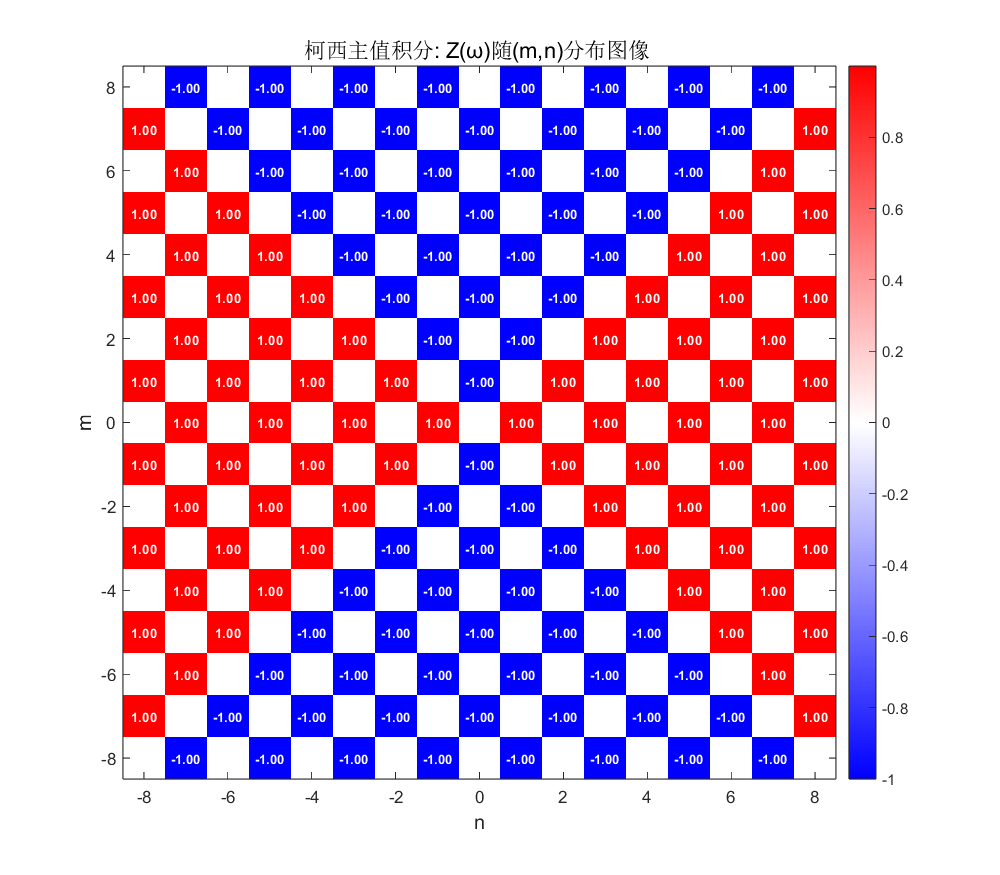
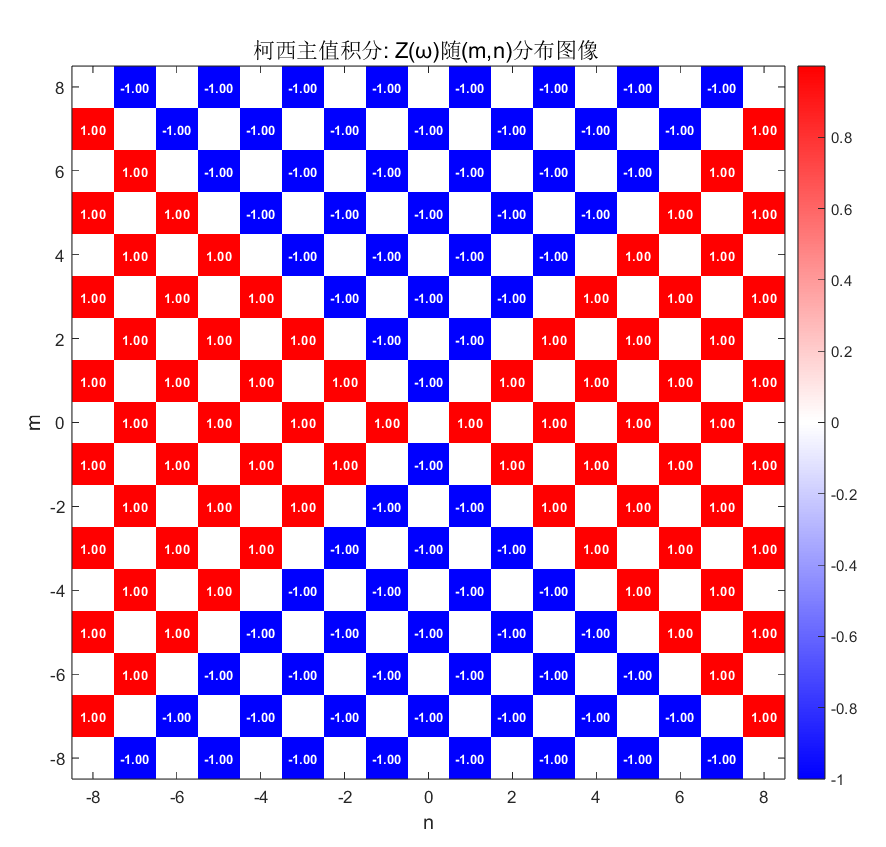
final_2

diff --git a/final_total_report/total.tex b/final_total_report/total.tex
@@ -681,6 +681,56 @@ we investigate transport in two-dimensional infinite
 
 \subsection{问题背景与频域方程}
 
+
+\begin{figure}[H]
+  \centering
+  \begin{tikzpicture}[scale=1.2]
+    % 参数设置
+    \def\m{4} % x方向节点数
+    \def\n{3} % y方向节点数
+    \def\step{1.0} % 网格步长
+
+    % 绘制网格线（从(0,0)到(m,n)）
+    \draw[step=\step, thin, gray!50] (0,0) grid (\m,\n);
+
+    % 绘制横向电容（x方向）在每条水平网格线上
+    \foreach \y in {0,...,\n} {
+      \foreach \x in {0,...,\numexpr\m-1} {
+        \draw (\x,\y) to[C, l_=$C$, o-o] (\x+1,\y);
+      }
+    }
+
+    % 绘制纵向电感（y方向）在每条竖直网格线上
+    \foreach \x in {0,...,\m} {
+      \foreach \y in {0,...,\numexpr\n-1} {
+        \draw (\x,\y) to[L, l_=$L$, o-o] (\x,\y+1);
+      }
+    }
+
+    % 标注原点 (0,0)
+    \fill (0,0) circle (2.5pt);
+    \node[below left, xshift=-2pt] at (0,0) {$(0,0)$};
+
+    % 标注点 (m,n)
+    \fill (\m,\n) circle (2.5pt);
+    \node[above right, xshift=2pt] at (\m,\n) {$(m,n)$};
+
+    % 电流注入和流出箭头
+    \draw[->, thick, red] (0,0) -- ++(-0.6,0.6) node[above left] {$I$};
+    \draw[->, thick, blue] (\m,\n) -- ++(0.6,-0.6) node[below right] {$I$};
+
+    % 标注坐标轴方向
+    \draw[->, thick, gray!70] (-0.5,0) -- (\m+0.5,0) node[below] {$x$};
+    \draw[->, thick, gray!70] (0,-0.5) -- (0,\n+0.5) node[left] {$y$};
+
+  \end{tikzpicture}
+  \caption{二维 $LC$ 网格电路示意图}
+  \label{fig:LC_grid}
+\end{figure}
+
+
+
+
 考虑二维无穷网格：横向（$x$方向）由电容$C$连接，纵向（$y$方向）由电感$L$连接。在节点$(0,0)$注入交流电流$I$（角频率$\omega$），在$(m,n)$流出。任意节点的电势记为$V(x,y)$。
 
 根据KCL，推导可得频域电势
@@ -885,7 +935,7 @@ we investigate transport in two-dimensional infinite
         0, & m+n\ \text{为偶数}.
     \end{cases}
 \end{equation}
-同理，
+
 \begin{equation}
     \int_{-\pi}^{\pi}\frac{\sin(bv)}{\sin v}\,\di v
     =
@@ -895,7 +945,7 @@ we investigate transport in two-dimensional infinite
     \end{cases}
 \end{equation}
 
-两个积分均非零当且仅当 $m+n$ 和 $m-n$ 均为奇数，即 $m$ 与 $n$ 一奇一偶且 $m\neq n$。由式(\ref{eq:I_separated})，
+两个积分均非零当且仅当 $m+n$ 和 $m-n$ 均为奇数，即 $m$ 与 $n$ 一奇一偶。由式(\ref{eq:I_separated})，
 \begin{equation}
     I(m,n;1)=
     \left(\int_{-\pi}^{\pi}\frac{\sin(au)}{\sin u}\,\di u\right)
@@ -940,7 +990,17 @@ we investigate transport in two-dimensional infinite
   \label{fig:Chauchy}
 \end{figure}
 
+\subsection{零阻抗的应用前景}
 
+临界频率下奇偶性相同节点间阻抗为零的现象，在射频工程与传感技术中具有重要的应用价值。
+
+\begin{enumerate}
+    \item \textbf{零损耗射频信号传输}：传统微波传输线受导体损耗和介质损耗的制约，而临界频率下的 $LC$ 网格提供了一条无损信号路径\textsuperscript{\cite{444}}。通过选择奇偶性相同的节点对，信号可在理论上无耗地到达目标节点。该特性可应用于片上无线能量传输、可重构功率分配网络以及高效率射频前端的设计，显著降低系统功耗。
+    
+    \item \textbf{超灵敏传感与探测}：零阻抗节点对外部扰动极度敏感——若在该节点接入传感元件（如可变电容），其微小变化将打破零阻抗条件，导致阻抗发生剧烈跳变。这种突变可被高灵敏度检测，从而实现微弱物理/化学信号的放大机制，适用于生物分子检测、温度/压力传感以及网格缺陷定位等场景。
+\end{enumerate}
+
+此外，该现象为拓扑电路的室温实现提供了新思路：零阻抗路径对元件容差不敏感，可用于设计高鲁棒性的微波器件，并为高阶拓扑绝缘体的电路模拟奠定基础。
 
 
 \subsection{其他频率的讨论}
@@ -1013,6 +1073,12 @@ Application of the lattice Green's function for calculating the resistance of an
 English L~Q, Halchenko A, Palmero F.
 Topologically protected spatially localized modes: An easy experimental realization of the Su–Schrieffer–Heeger model[J].
 \textit{Physica B: Condensed Matter}, 2026, 734: 418616.
+
+\bibitem{444}
+Sahin H.
+Topoelectrical circuit theory and realizations of topological, non-linear, and non-Hermitian phenomena[D].
+Singapore: National University of Singapore, 2024.
+
 
 \end{thebibliography}
 